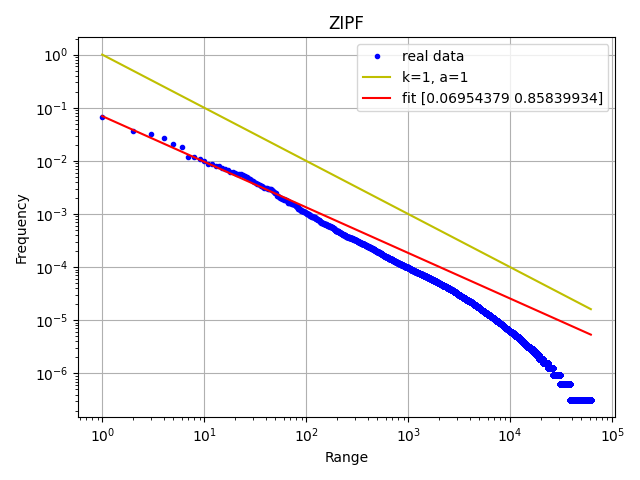
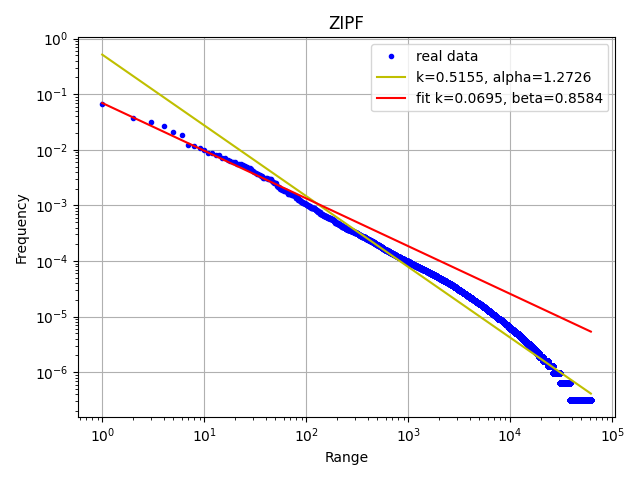
Cleaning

diff --git a/Laboratori/Sessio1/elasticsearch/SearchIndex.py b/Laboratori/Sessio1/elasticsearch/SearchIndex.py
@@ -26,8 +26,8 @@ from elasticsearch_dsl.query import Q
 
 if __name__ == '__main__':
     parser = argparse.ArgumentParser()
-    parser.add_argument('--index', default='inovels_2', required=False, help='Index to search')
-    parser.add_argument('--text', default='good', help='text to search')
+    parser.add_argument('--index', default=None, required=True, help='Index to search')
+    parser.add_argument('--text', default=None, help='text to search')
     parser.add_argument('--query', default=None, nargs=argparse.REMAINDER, help='Lucene query')
 
     args = parser.parse_args()

diff --git a/Laboratori/Sessio1/elasticsearch/IndexFiles.py b/Laboratori/Sessio1/elasticsearch/IndexFiles.py
@@ -46,8 +46,8 @@ def generate_files_list(path):
 
 if __name__ == '__main__':
     parser = argparse.ArgumentParser()
-    parser.add_argument('--path', required=False, default='../doc/novels', help='Path to the files')
-    parser.add_argument('--index', required=False, default='inovels', help='Index for the files')
+    parser.add_argument('--path', required=True, default=None, help='Path to the files')
+    parser.add_argument('--index', required=True, default=None, help='Index for the files')
 
     args = parser.parse_args()
 

diff --git a/Laboratori/Sessio1/elasticsearch/CountWords.py b/Laboratori/Sessio1/elasticsearch/CountWords.py
@@ -25,7 +25,7 @@ import argparse
 
 if __name__ == '__main__':
     parser = argparse.ArgumentParser()
-    parser.add_argument('--index', default='inovels_2', required=False, help='Index to search')
+    parser.add_argument('--index', default=None, required=True, help='Index to search')
     parser.add_argument('--alpha', action='store_true', default=False, help='Sort words alphabetically')
     args = parser.parse_args()
 

diff --git a/Laboratori/Sessio1/Zipf.py b/Laboratori/Sessio1/Zipf.py
@@ -34,7 +34,7 @@ def zipf_fit(frequency, dwnTrim, topTrim):
 
 
 print("Reading words.")
-CountWords = read_csv("CountWords_1")
+CountWords = read_csv("CountWords_All")
 
 print("Cleaning words.")
 CleanCountWords = clean_words(CountWords)
